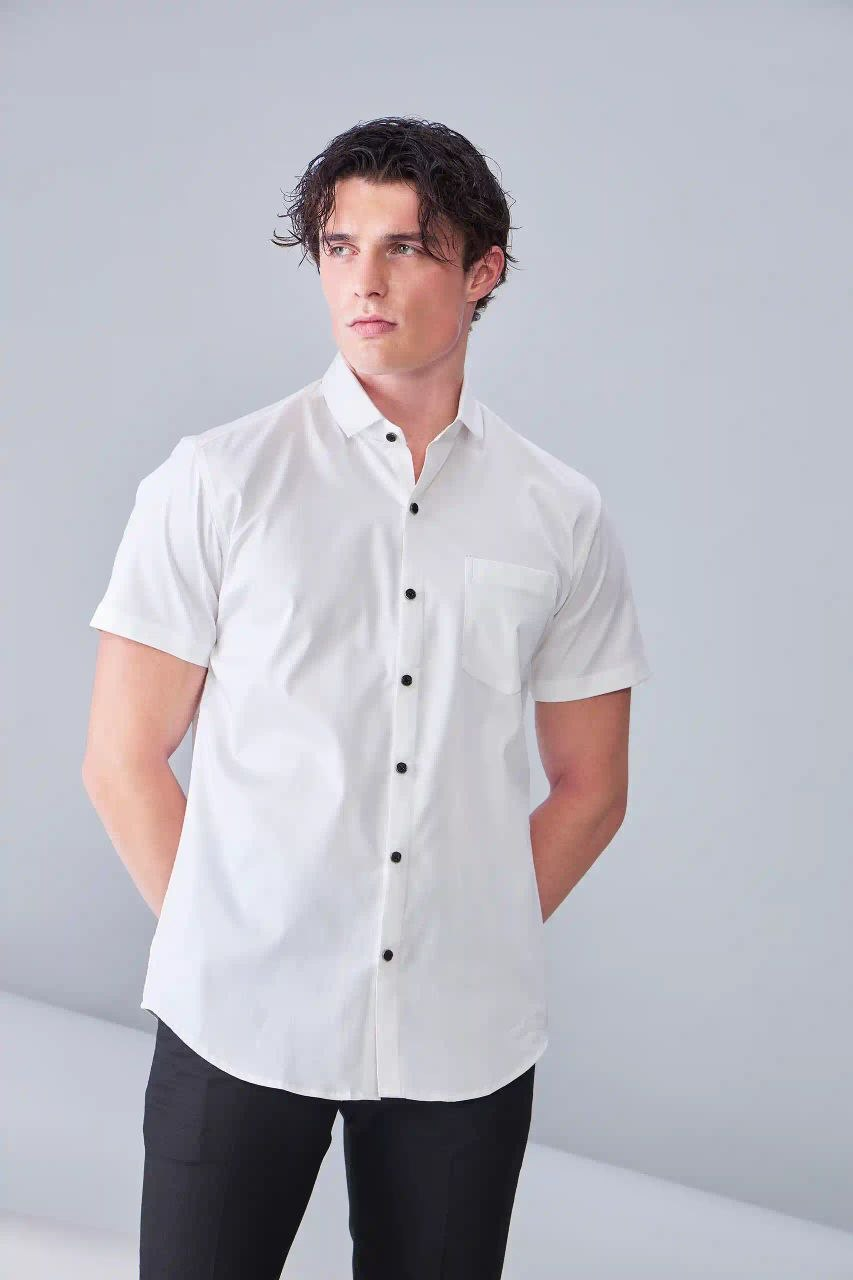
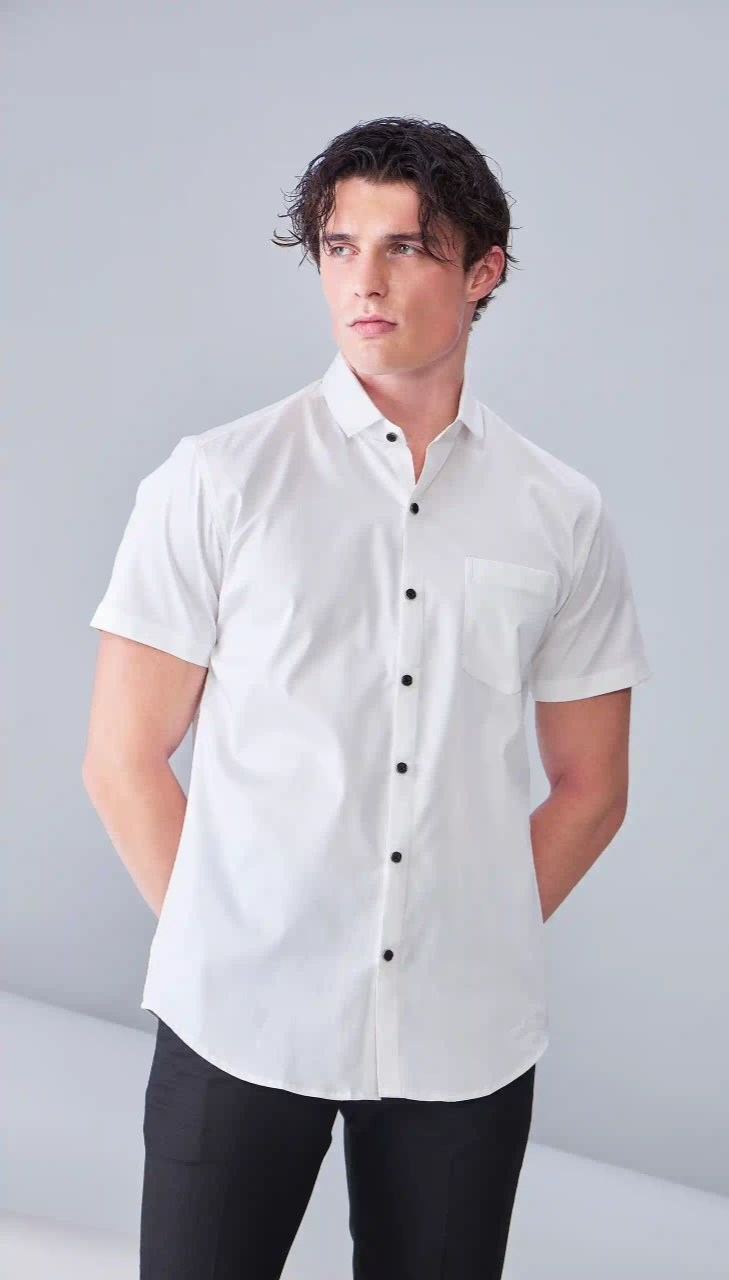
Send phones compressed full-size photos, and let browsers cache photos and fonts
- scripts/images.mjs also makes a full-width WebP copy, so the original file is never
  sent as it is (the phone hero is about 40% lighter); an original WebP that is already
  smaller is kept.
- Copies are named after the whole file name (shoot-10.jpg.400.webp), so shoot-10.jpg
  and shoot-10.webp no longer overwrite each other's copies.
- Photos are cached for a day (then refreshed in the background), fonts for a year.
- Hero: the popup's photo is now the fifteenth shoot, and shoot-05.jpg is updated.

diff --git a/components/Photo.tsx b/components/Photo.tsx
@@ -18,14 +18,14 @@ export function photo(src: string): Known {
 /** The address of the photo as it was put in the folder. */
 export const photoUrl = (src: string) => '/images/' + src;
 
-/** Every copy of the photo with its width, for srcset, the original last. */
+/**
+ * Every copy of the photo with its width, for srcset, the full-width one last. Copies are
+ * named after the whole file name, as scripts/images.mjs makes them.
+ */
 export function photoSrcSet(src: string): string {
-  const { width, widths } = photo(src);
-  const base = src.replace(/\.[^.]+$/, '');
-  return [
-    ...widths.map((w) => `/images/_sized/${base}-${w}.webp ${w}w`),
-    `${photoUrl(src)} ${width}w`,
-  ].join(', ');
+  return photo(src)
+    .widths.map((w) => `/images/_sized/${src}.${w}.webp ${w}w`)
+    .join(', ');
 }
 
 /** What the curtain loads ahead of a page: the same choice the page's <img> will make. */

diff --git a/content/hero.ts b/content/hero.ts
@@ -50,7 +50,7 @@ export const SHOOTS = [
 export const SHOOT_SIZES = '(max-width: 640px) 220px, 25vw';
 
 /** The middle shoot: preloaded in the page head, and in the popup. */
-export const LEAD_SHOOT = SHOOTS[2].src;
+export const LEAD_SHOOT = SHOOTS[14].src;
 
 /** What the curtain waits for on its way back to the home page: the three middle shoots. */
 export const HOME_PRELOAD = SHOOTS.slice(1, 4).map((shoot) => photoPreload(shoot.src, SHOOT_SIZES));
